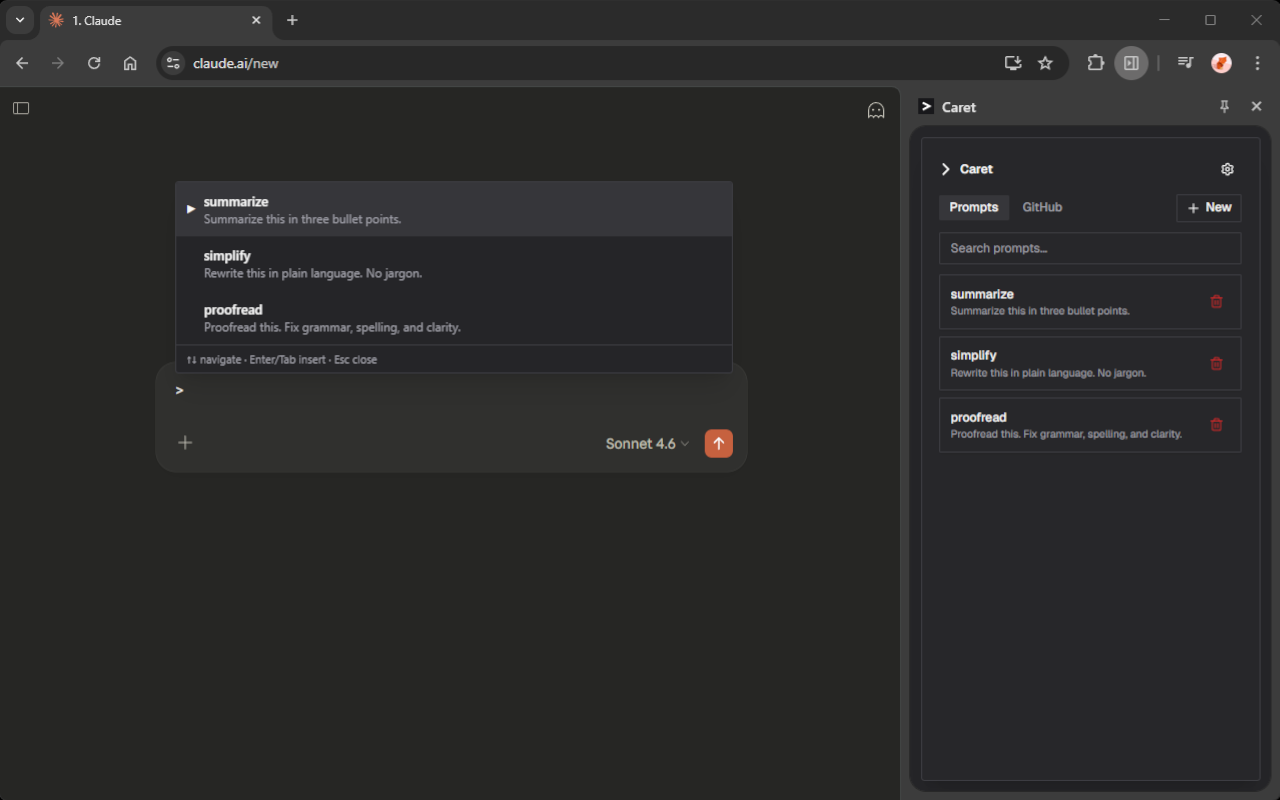
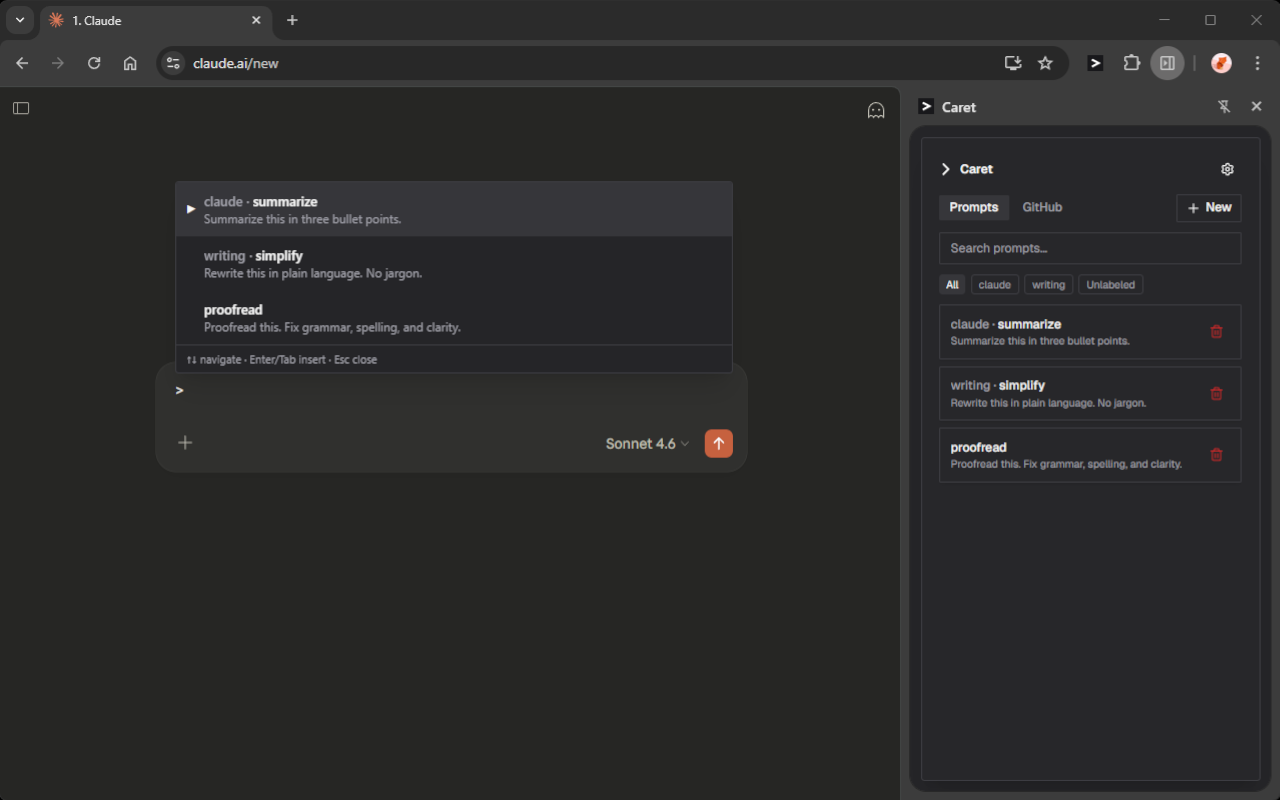
chore(store): add demo and screenshot recording docs (#91)
## Summary

Add `store/demo.md`, `store/screenshots.md`, and `store/demo-prompts.json` to capture the full recording workflow for the labels release. Refactor `store/listing.md` to reference the new docs instead of inlining steps.

## Key Changes

- Add `store/demo.md`: OBS record, DaVinci Resolve edit, and export steps for the demo video including the labels sequence.
- Add `store/screenshots.md`: mandatory shot 1 (dropdown) plus future shots (prompt form, options page) with steps for each.
- Add `store/demo-prompts.json`: three fixture prompts to import before recording.
- Refactor `store/listing.md` steps 2 and 3 to delegate to the new docs.
- Apply nested bullets to `CLAUDE.md` shipping and manual testing sections for scannability.
- Add re-record demo task to `.claude/TASKS.md`.

diff --git a/store/listing.md b/store/listing.md
@@ -14,42 +14,17 @@ Everything else is editable at any time without re-review: descriptions, privacy
 
 ## Step 1: Produce store assets in Figma
 
-Follow `store/figma-store-icon.md` to produce `store/icon.png`, `store/figma-icons.md` to produce the manifest icons, and `store/figma-promo-tile.md` to produce `store/promo-440x280.png`.
+- Follow `store/figma-store-icon.md` to produce `store/icon.png`
+- Follow `store/figma-icons.md` to produce the manifest icons
+- Follow `store/figma-promo-tile.md` to produce `store/promo-440x280.png`
 
-## Step 2: Produce the 1280×800 screenshot
+## Step 2: Produce screenshots
 
-1. Build the extension: `bun run build`.
-2. Load the unpacked extension in Chrome: open `chrome://extensions/`, enable Developer mode, click "Load unpacked", select `dist/`.
-3. Use FancyZones to snap the Chrome window to exactly 1280×800.
-4. Open Claude.ai in a tab.
-5. Click the Caret icon to open the side panel.
-6. Click in the chat input and type `>` to open the dropdown.
-7. Capture the window with OBS and save as `store/screenshot-1280x800.png`.
+Follow `store/screenshots.md` to produce the 1280×800 screenshots.
 
 ## Step 3: Record the demo
 
-Best done in the same Chrome session as step 2, with the extension already loaded.
-
-### Record (OBS Studio)
-
-1. Create a scene with a Display Capture source at 1920×1080, 30 fps.
-2. In Settings → Output, set format to MP4 and note the output folder.
-3. Use FancyZones to snap Chrome into a side-by-side layout: side panel on the right, claude.ai on the left.
-4. Click Start Recording and perform this sequence: click the Caret icon to open the side panel → click New → enter a name (e.g. `summarize`) and a short body → Save → click into the claude.ai chat input → type `>` → type `sum` to filter → press Enter to insert.
-5. Click Stop Recording. Aim for raw footage around 60–90 seconds.
-
-### Edit (DaVinci Resolve)
-
-6. Import the raw clip and trim dead time at the start and end.
-7. Add a zoom-in on the side panel form while creating the prompt. The fields are small at full 1080p.
-8. Add a zoom-in on the chat input when the dropdown appears. This is the moment to make legible.
-9. Add minimal on-screen text labels (white, bottom-center, ~2 seconds each): `"Click Caret icon"` when opening the panel, `"Type > to invoke"` before typing in the chat input, `"Enter to insert"` on the keypress.
-10. Trim to 30–40 seconds total.
-
-### Export
-
-11. Export as `store/demo.mp4`.
-12. Add it to `README.md` once the file exists.
+Follow `store/demo.md` to record, edit, and export `store/demo.mp4`.
 
 ## Step 4: Enable GitHub Pages for the privacy policy
 
@@ -69,7 +44,10 @@ Best done in the same Chrome session as step 2, with the extension already loade
 - Full description: copy from `store/description-full.txt`
 - Short description: copy from `store/description-short.txt`
 - Store icon: upload `store/icon.png`
-- Screenshots: upload `store/screenshot-1280x800.png`
+- Screenshots:
+  - `store/screenshot-1280x800.png`
+  - `store/screenshot-labels-1280x800.png`
+  - `store/screenshot-form-1280x800.png`
 - Small promo tile: upload `store/promo-440x280.png`
 - Category: Developer Tools
 - Support URL: `https://github.com/erclx/caret/issues`
@@ -81,13 +59,20 @@ Best done in the same Chrome session as step 2, with the extension already loade
 - storage justification: copy from `store/privacy-storage-justification.txt`
 - Host permission justification: copy from `store/privacy-host-permission-justification.txt`
 - Remote code: select "No, I am not using remote code"
-- Data usage: check none of the data categories; check all three certifications
+- Data usage:
+  - Check none of the data categories
+  - Check all three certifications
 - Privacy policy URL: `https://erclx.github.io/caret/privacy`
 
 ## Step 8: Add contact email and submit
 
 1. Go to the Account tab, add your contact email, and complete the verification.
-2. Confirm all fields are complete: descriptions, privacy policy URL, category, store icon, and screenshots.
+2. Confirm all fields are complete:
+   - Descriptions
+   - Privacy policy URL
+   - Category
+   - Store icon
+   - Screenshots
 3. Click "Submit for review". Chrome review typically takes one to three business days.
 
 ## Step 9: Get Chrome Web Store API credentials
@@ -95,11 +80,21 @@ Best done in the same Chrome session as step 2, with the extension already loade
 The release workflow needs four secrets to publish automatically. To generate them:
 
 1. Go to [Google Cloud Console](https://console.cloud.google.com) and create a new project (name it anything, e.g. `caret-cws`).
-2. Go to APIs & Services → Library, search for "Chrome Web Store API", and enable it.
+2. Go to APIs & Services → Library:
+   - Search for "Chrome Web Store API"
+   - Enable it
 3. Go to APIs & Services → Credentials → Create Credentials → OAuth 2.0 Client ID.
-4. Set application type to "Desktop app" and click Create. Copy the client ID and client secret.
-5. Add `CWS_CLIENT_ID`, `CWS_CLIENT_SECRET`, and `CWS_AUTH_CODE` to `.env.local`. Leave `CWS_AUTH_CODE` blank for now.
-6. Run `bash scripts/cws-token.sh`. With no auth code set, it prints the OAuth URL with your client ID already filled in. Open that URL, sign in with the account that owns the developer dashboard, and copy the authorization code shown.
+4. Set application type to "Desktop app" and click Create:
+   - Copy the client ID
+   - Copy the client secret
+5. Add to `.env.local`:
+   - `CWS_CLIENT_ID`
+   - `CWS_CLIENT_SECRET`
+   - `CWS_AUTH_CODE` (leave blank for now)
+6. Run `bash scripts/cws-token.sh`. With no auth code set, it prints the OAuth URL with your client ID already filled in:
+   - Open that URL
+   - Sign in with the account that owns the developer dashboard
+   - Copy the authorization code shown
 7. Set `CWS_AUTH_CODE` in `.env.local` and re-run `bash scripts/cws-token.sh`. It prints the `refresh_token` value.
 
 ## Step 10: Add secrets to the GitHub repo

diff --git a/CLAUDE.md b/CLAUDE.md
@@ -14,8 +14,14 @@ Chrome extension (MV3) that lets users save reusable prompts and invoke them via
 ## Shipping
 
 - Before running `/toolkit:git-ship`, read store files and `manual/` verify files in parallel and update any that are stale
-- On any user-visible feature change, check `store/description-short.txt` and `store/description-full.txt`
-- On any permission change in `manifest.config.ts`, check `store/privacy-single-purpose.txt`, `store/privacy-host-permission-justification.txt`, `store/privacy-sidepanel-justification.txt`, and `store/privacy-storage-justification.txt`
+- On any user-visible feature change, check:
+  - `store/description-short.txt`
+  - `store/description-full.txt`
+- On any permission change in `manifest.config.ts`, check:
+  - `store/privacy-single-purpose.txt`
+  - `store/privacy-host-permission-justification.txt`
+  - `store/privacy-sidepanel-justification.txt`
+  - `store/privacy-storage-justification.txt`
 - `store/listing.md` and `store/figma-*.md` are procedural docs and never need updating from code changes
 
 ## Collaboration rules
@@ -53,11 +59,13 @@ Chrome extension (MV3) that lets users save reusable prompts and invoke them via
 
 ## Manual testing
 
-- When a change affects import/export behavior, update the fixtures in `manual/import-export/` and `manual/import-export/verify.md`
-- When a change affects GitHub sync behavior, update `manual/github-sync/verify.md`
-- When a change affects the sidepanel UI or prompt form, update `manual/sidepanel/verify.md`
-- When a change affects trigger behavior, dropdown, or per-site config, update `manual/trigger/verify.md`
-- When a change affects theming or dark mode styles, update `manual/dark-mode/verify.md`
+When a change touches a tested area, update the corresponding fixtures and verify file:
+
+- Import/export behavior → `manual/import-export/` and `manual/import-export/verify.md`
+- GitHub sync behavior → `manual/github-sync/verify.md`
+- Sidepanel UI or prompt form → `manual/sidepanel/verify.md`
+- Trigger behavior, dropdown, or per-site config → `manual/trigger/verify.md`
+- Theming or dark mode styles → `manual/dark-mode/verify.md`
 
 ## Memory
 

diff --git a/store/demo.md b/store/demo.md
@@ -1,0 +1,46 @@
+# Demo
+
+Records the demo video for the Chrome Web Store listing and README.
+
+## Setup
+
+Same Chrome session as the screenshots works fine. If starting fresh, import `store/demo-prompts.json` via Settings → Import in the side panel.
+
+## Record (OBS Studio)
+
+1. Create a scene with a Display Capture source at 1920×1080, 30 fps.
+2. In Settings → Output, set format to MP4 and note the output folder.
+3. Use FancyZones to snap Chrome into a side-by-side layout:
+   - Side panel on the right
+   - Claude.ai on the left
+4. Click Start Recording and perform this sequence:
+   - Click the Caret icon to open the side panel
+   - Click New
+   - Enter name `summarize`, label `claude`, body `Summarize this in three bullet points.`
+   - Click Save
+   - Click the `claude` pill to filter, then click it again to clear
+   - Click into the Claude.ai chat input
+   - Type `>` to open the dropdown
+   - Type `sum` to filter
+   - Press Enter to insert
+5. Click Stop Recording. Aim for raw footage around 60–90 seconds.
+
+## Edit (DaVinci Resolve)
+
+6. Import the raw clip and trim dead time at the start and end.
+7. Add a zoom-in on the side panel form while creating the prompt. The fields are small at full 1080p.
+8. Add a zoom-in on the label pills when filtering.
+9. Add a zoom-in on the chat input when the dropdown appears.
+10. Add on-screen text labels (white, bottom-center, ~2 seconds each):
+    - `"Click Caret icon"` when opening the side panel
+    - `"Add prompt"` while filling in the form
+    - `"Press Save"` after completing the form
+    - `"Type > to invoke"` before typing in the chat input
+    - `"Enter to insert"` on the keypress
+11. Trim to 30–40 seconds total.
+
+## Export
+
+12. Export as `store/demo.mp4`.
+13. Upload to YouTube.
+14. Update the link in `README.md`.

diff --git a/store/screenshots.md b/store/screenshots.md
@@ -1,0 +1,43 @@
+# Screenshots
+
+Produces the 1280×800 screenshots for the Chrome Web Store listing.
+
+## Setup
+
+1. Run `bun run build`.
+2. Open `chrome://extensions/`:
+   - Enable Developer mode
+   - Click "Load unpacked"
+   - Select `dist/`
+3. Use FancyZones to snap the Chrome window to exactly 1280×800.
+4. Open Claude.ai in a tab:
+   - Open the side panel
+   - Go to Settings → Import
+   - Import `store/demo-prompts.json`
+
+## Mandatory
+
+### Shot 1: Dropdown open
+
+1. Click the Caret icon to open the side panel.
+2. Click in the chat input and type `>` to open the dropdown. All three prompts should be visible with `label · name` rows.
+3. Capture the window with OBS and save as `store/screenshot-1280x800.png`.
+
+## Future shots
+
+Add these when the listing needs more coverage. Each is 1280×800 and uses the same setup above.
+
+### Prompt form
+
+1. Click "New" in the side panel to open the prompt form.
+2. Fill in all fields:
+   - Name: `summarize`
+   - Label: `claude`
+   - Body: `Summarize this in three bullet points.`
+3. Capture the window and save as `store/screenshot-form-1280x800.png`.
+
+### Options page
+
+1. Open `chrome://extensions/`, find Caret, and click "Details" → "Extension options".
+2. Configure at least two sites with different trigger symbols so the list is populated.
+3. Capture the window and save as `store/screenshot-options-1280x800.png`.

diff --git a/.claude/TASKS.md b/.claude/TASKS.md
@@ -18,9 +18,12 @@ Two sections only: Up next and Done. When completing a task, mark it `[x]` in pl
 
 ## Up next
 
-### Nothing queued
+### Chore: re-record demo for labels
 
-- No tasks currently
+- [ ] Record, edit, and export a new demo following `store/demo.md`. The existing demo predates labels and does not show filter pills or `label · name` display
+- [ ] Upload to YouTube and update the link in `README.md`
+
+> Test strategy: visual verification
 
 ## Done
 
@@ -101,3 +104,9 @@ Two sections only: Up next and Done. When completing a task, mark it `[x]` in pl
 - [x] Leave seeds independent of fixtures: they serve different purposes and coupling them creates drift
 
 > Test strategy: visual verification. Load each fixture in the extension and confirm the expected feedback message and prompt state.
+
+### Fix: dropdown screenshots missing the dropdown
+
+- [x] Both dropdown captures showed only the textarea because the trigger was typed before the extension was ready. Add synchronization so the dropdown appears correctly in both light and dark shots.
+
+> Test strategy: visual verification of regenerated screenshots
